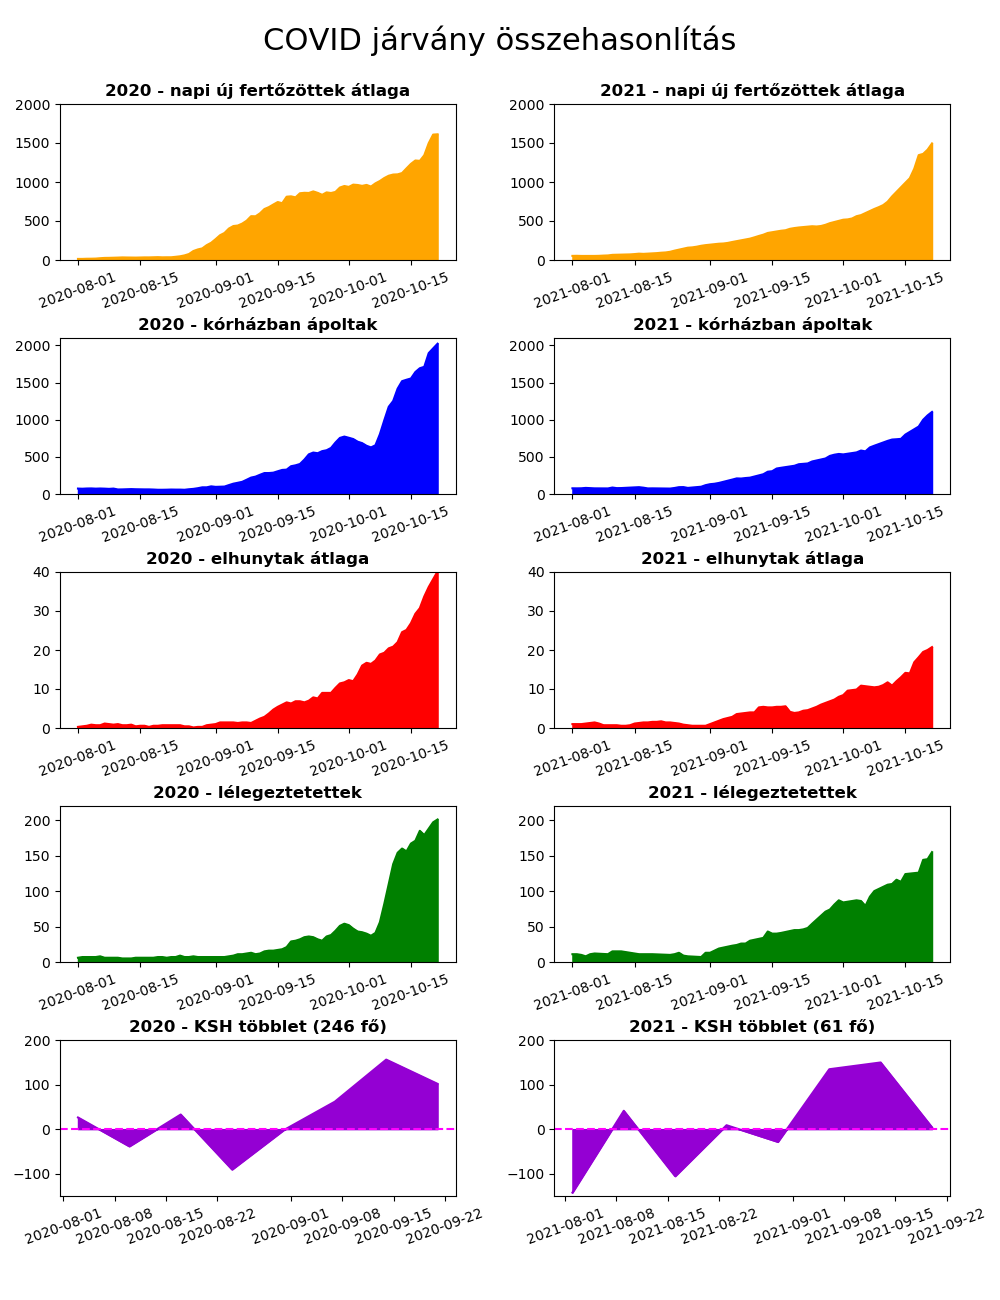
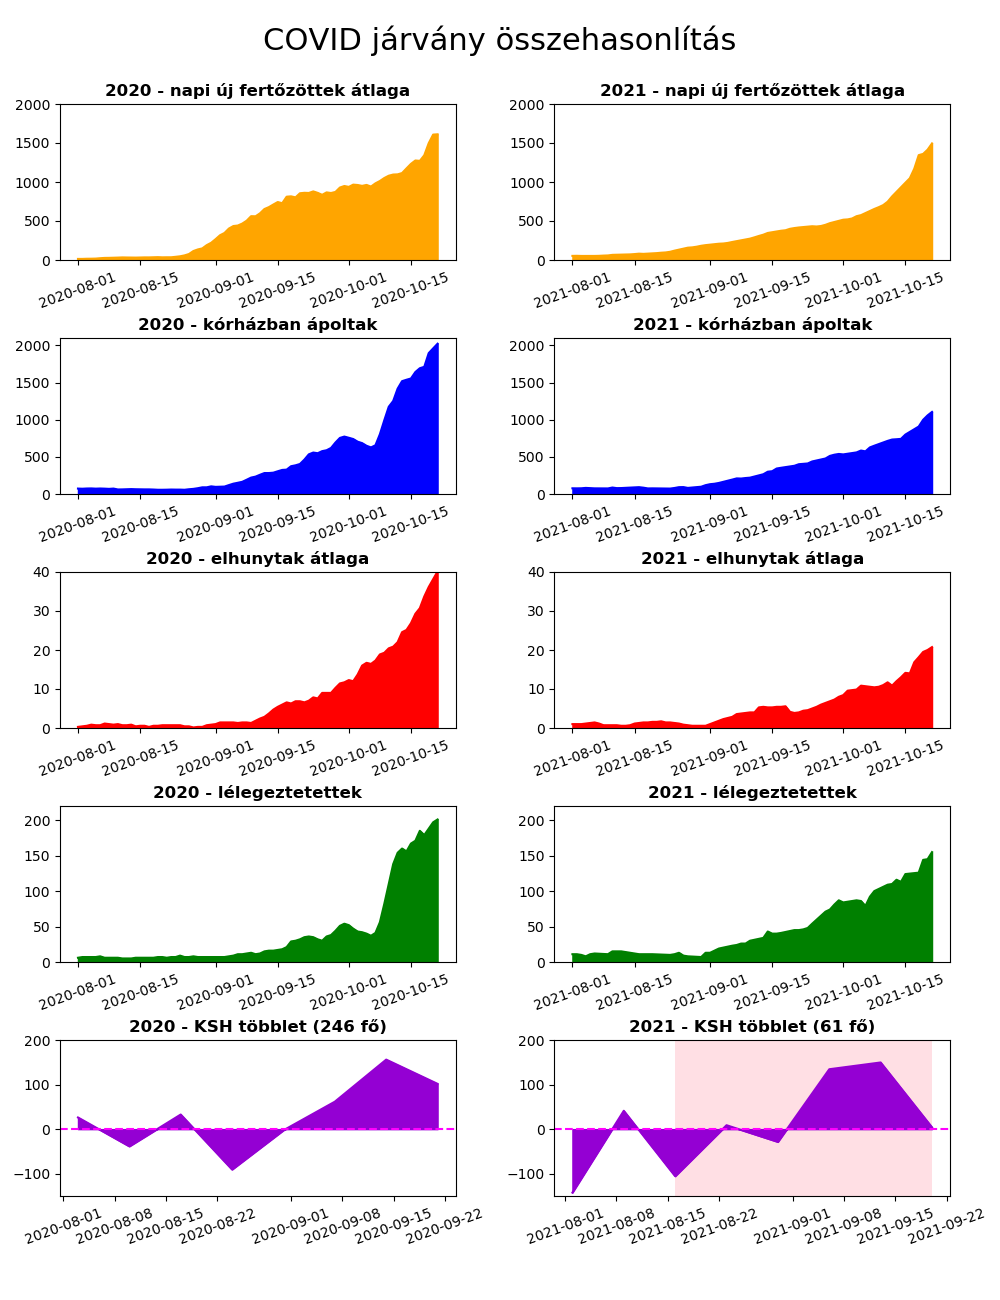
Instabil stadat régió

Changed region(s): [[0.651, 0.8, 0.93, 0.9231]]

diff --git a/kép_összehasonlítás.py b/kép_összehasonlítás.py
@@ -10,6 +10,7 @@ import matplotlib.pyplot as plt
 import mpl_toolkits.axisartist as AA
 from matplotlib import gridspec
 from datetime import timedelta
+from matplotlib.patches import Rectangle
 
 BASEDIR=os.path.dirname(__file__)
 
@@ -154,6 +155,7 @@ ax10.set_title("2021 - KSH többlet (" + str(ksh2021tobblet) + " fő)", fontweig
 ax10.tick_params(axis='x', rotation=20)
 ax10.axhline(0,color='magenta',ls='--')
 ax10.fill_between(dfksh2021['Dátum'], dfksh2021['KSH többlet'], color="darkviolet")
+ax10.add_patch(Rectangle((maxdateksh + timedelta(days = -35), kshtlim1), timedelta(days = 35), kshtlim2 - kshtlim1, facecolor="pink", alpha=0.5, zorder=-10))
 
 fig.suptitle('COVID járvány összehasonlítás', fontsize=22)
 fig.savefig(BASEDIR + "/képek/CovidÖsszehasonlítás.png")
